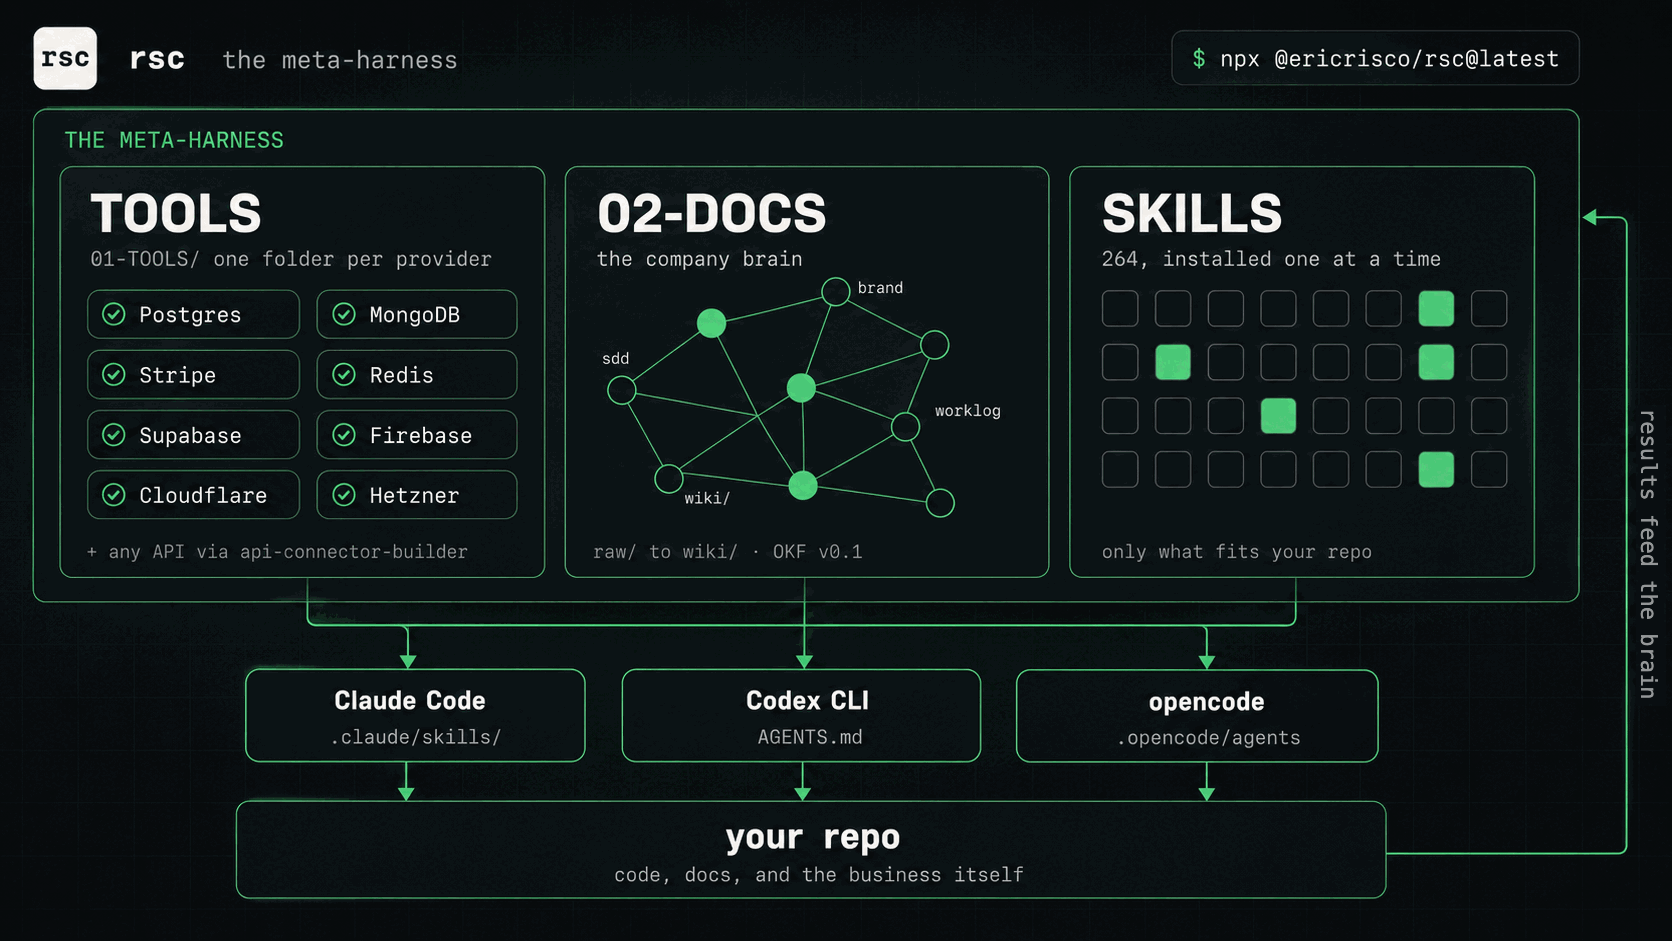
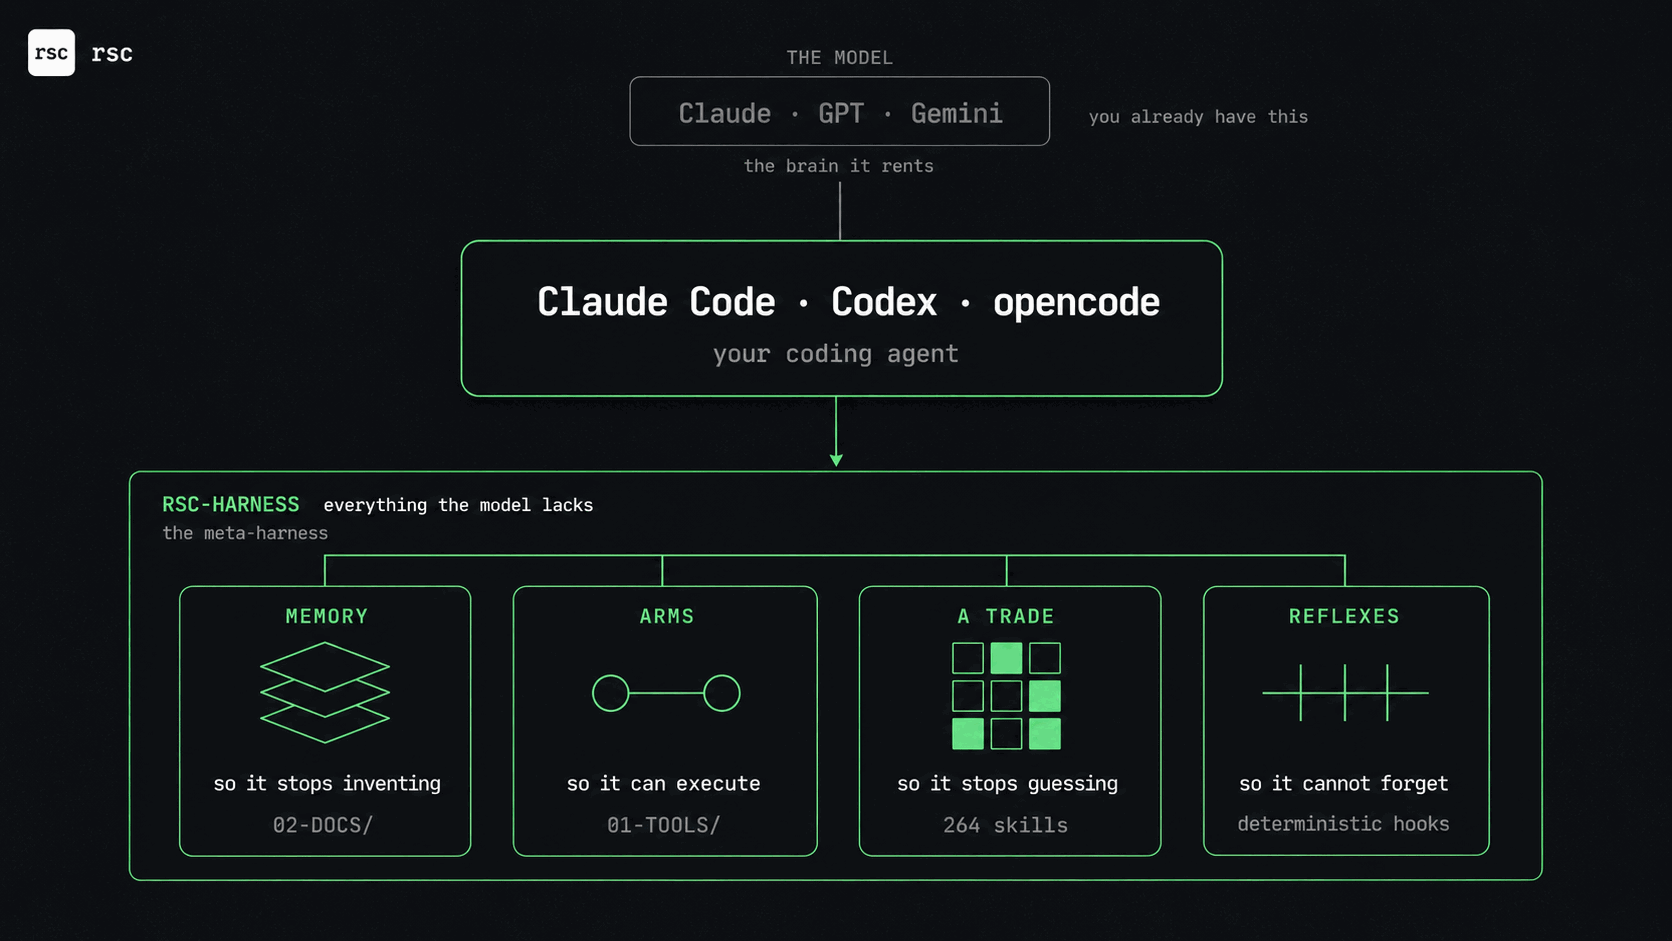
docs(readme): the schematic now separates the model from the harness
The old diagram showed four layers feeding three agents, which left the most
common confusion unanswered: what the agent already has versus what rsc adds.
The new one stacks it — the model (Claude, GPT, Gemini) greyed out at the top
as the brain it rents and already owns, the agent in the middle, and the four
organs grouped inside one RSC-HARNESS container labelled "everything the model
lacks".

- Panel titles sit above their glyphs, and each glyph is geometric (stacked
  layers, a connector, a filled grid, bars on a rail) rather than illustrative.
- Requantised 1.6 MB -> 252 KB (RMSE 0.6%).
- The caption said "three layers" while the diagram showed four; it now names
  the four and matches the cover's memory/arms/trade/reflexes framing.
- Alt text carries the full stack, model tier included.

diff --git a/README.md b/README.md
@@ -26,12 +26,12 @@ npx @ericrisco/rsc            # plain-language wizard — no jargon, installs wh
 
 <br>
 
-<img src="https://raw.githubusercontent.com/ericrisco/rsc-harness/main/site/meta-harness.png" alt="rsc is a meta-harness above your coding agents: TOOLS (01-TOOLS/, one folder per provider — Postgres, MongoDB, Stripe, Redis, Supabase, Firebase, Cloudflare, Hetzner, plus any API via api-connector-builder), 02-DOCS (the company brain — a knowledge graph turning raw/ into wiki/, OKF v0.1), and SKILLS (264, installed one at a time). All three feed Claude Code, Codex CLI and opencode, which work on your repo — and the results feed back into the brain." width="960">
+<img src="https://raw.githubusercontent.com/ericrisco/rsc-harness/main/site/meta-harness.png" alt="rsc — the model (Claude, GPT, Gemini) is the brain your coding agent rents, and you already have that. Claude Code, Codex and opencode sit in the middle. Below them the rsc meta-harness adds everything the model lacks: memory (02-DOCS/) so it stops inventing, arms (01-TOOLS/) so it can execute, a trade (264 skills) so it stops guessing, and reflexes (deterministic hooks) so it cannot forget the rule mid-session." width="960">
 
-**One harness above every agent.** `rsc` wires three layers into whichever assistant you
-already use — the **tools** that connect your providers, the **02-DOCS brain** that turns your
-own results into knowledge, and the **skills** that teach the agent the job — then keeps all
-three in sync as you work.
+**The model is the only part your agent already has.** `rsc` is the meta-harness that adds
+the rest: a **memory** so it stops inventing, **arms** so it can execute, a **trade** so it stops
+guessing, and **reflexes** so it cannot forget the rule mid-session — into whichever assistant
+you already use, and kept in sync as you work.
 
 </div>
 
